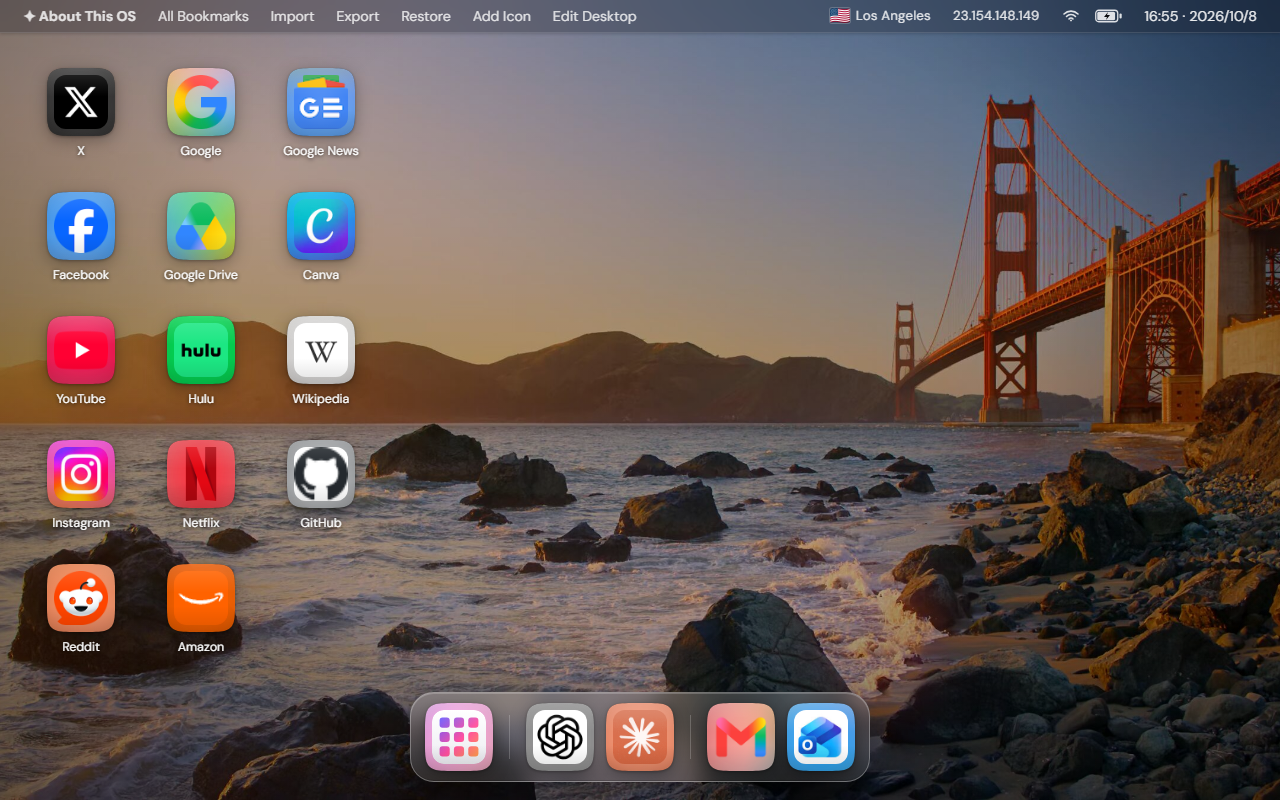
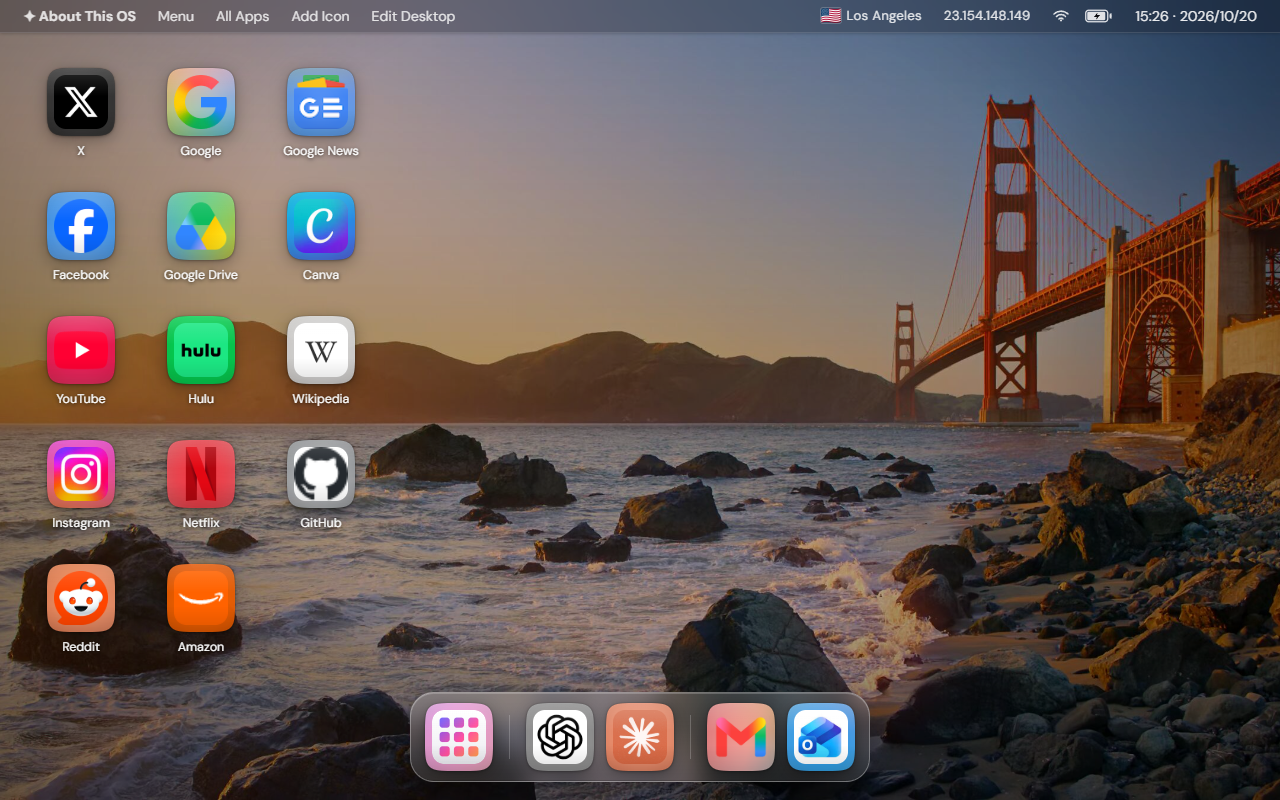
Regenerate store screenshots and promo tiles for 1.3.0
Screenshots show the Menu and All Apps naming; a third shows the
first-run welcome window. Promo tagline drops "No permissions" now that
bookmarks is an optional permission.

Changed region(s): [[0.625, 0.0, 1.0, 0.0312], [0.125, 0.0, 0.5, 0.0312]]

diff --git a/extension/promo/promo.html b/extension/promo/promo.html
@@ -72,7 +72,7 @@ body {
     <img class="logo" src="../../src/app-icon.svg" alt="">
     <h1>Bookmark OS</h1>
     <p>Your bookmarks as a desktop on every new tab.</p>
-    <p class="fine">No account · No permissions · Stays in your browser</p>
+    <p class="fine">No account · No tracking · Stays in your browser</p>
 </div>
 <div class="window">
     <div class="bar"><i></i><i></i><i></i></div>
